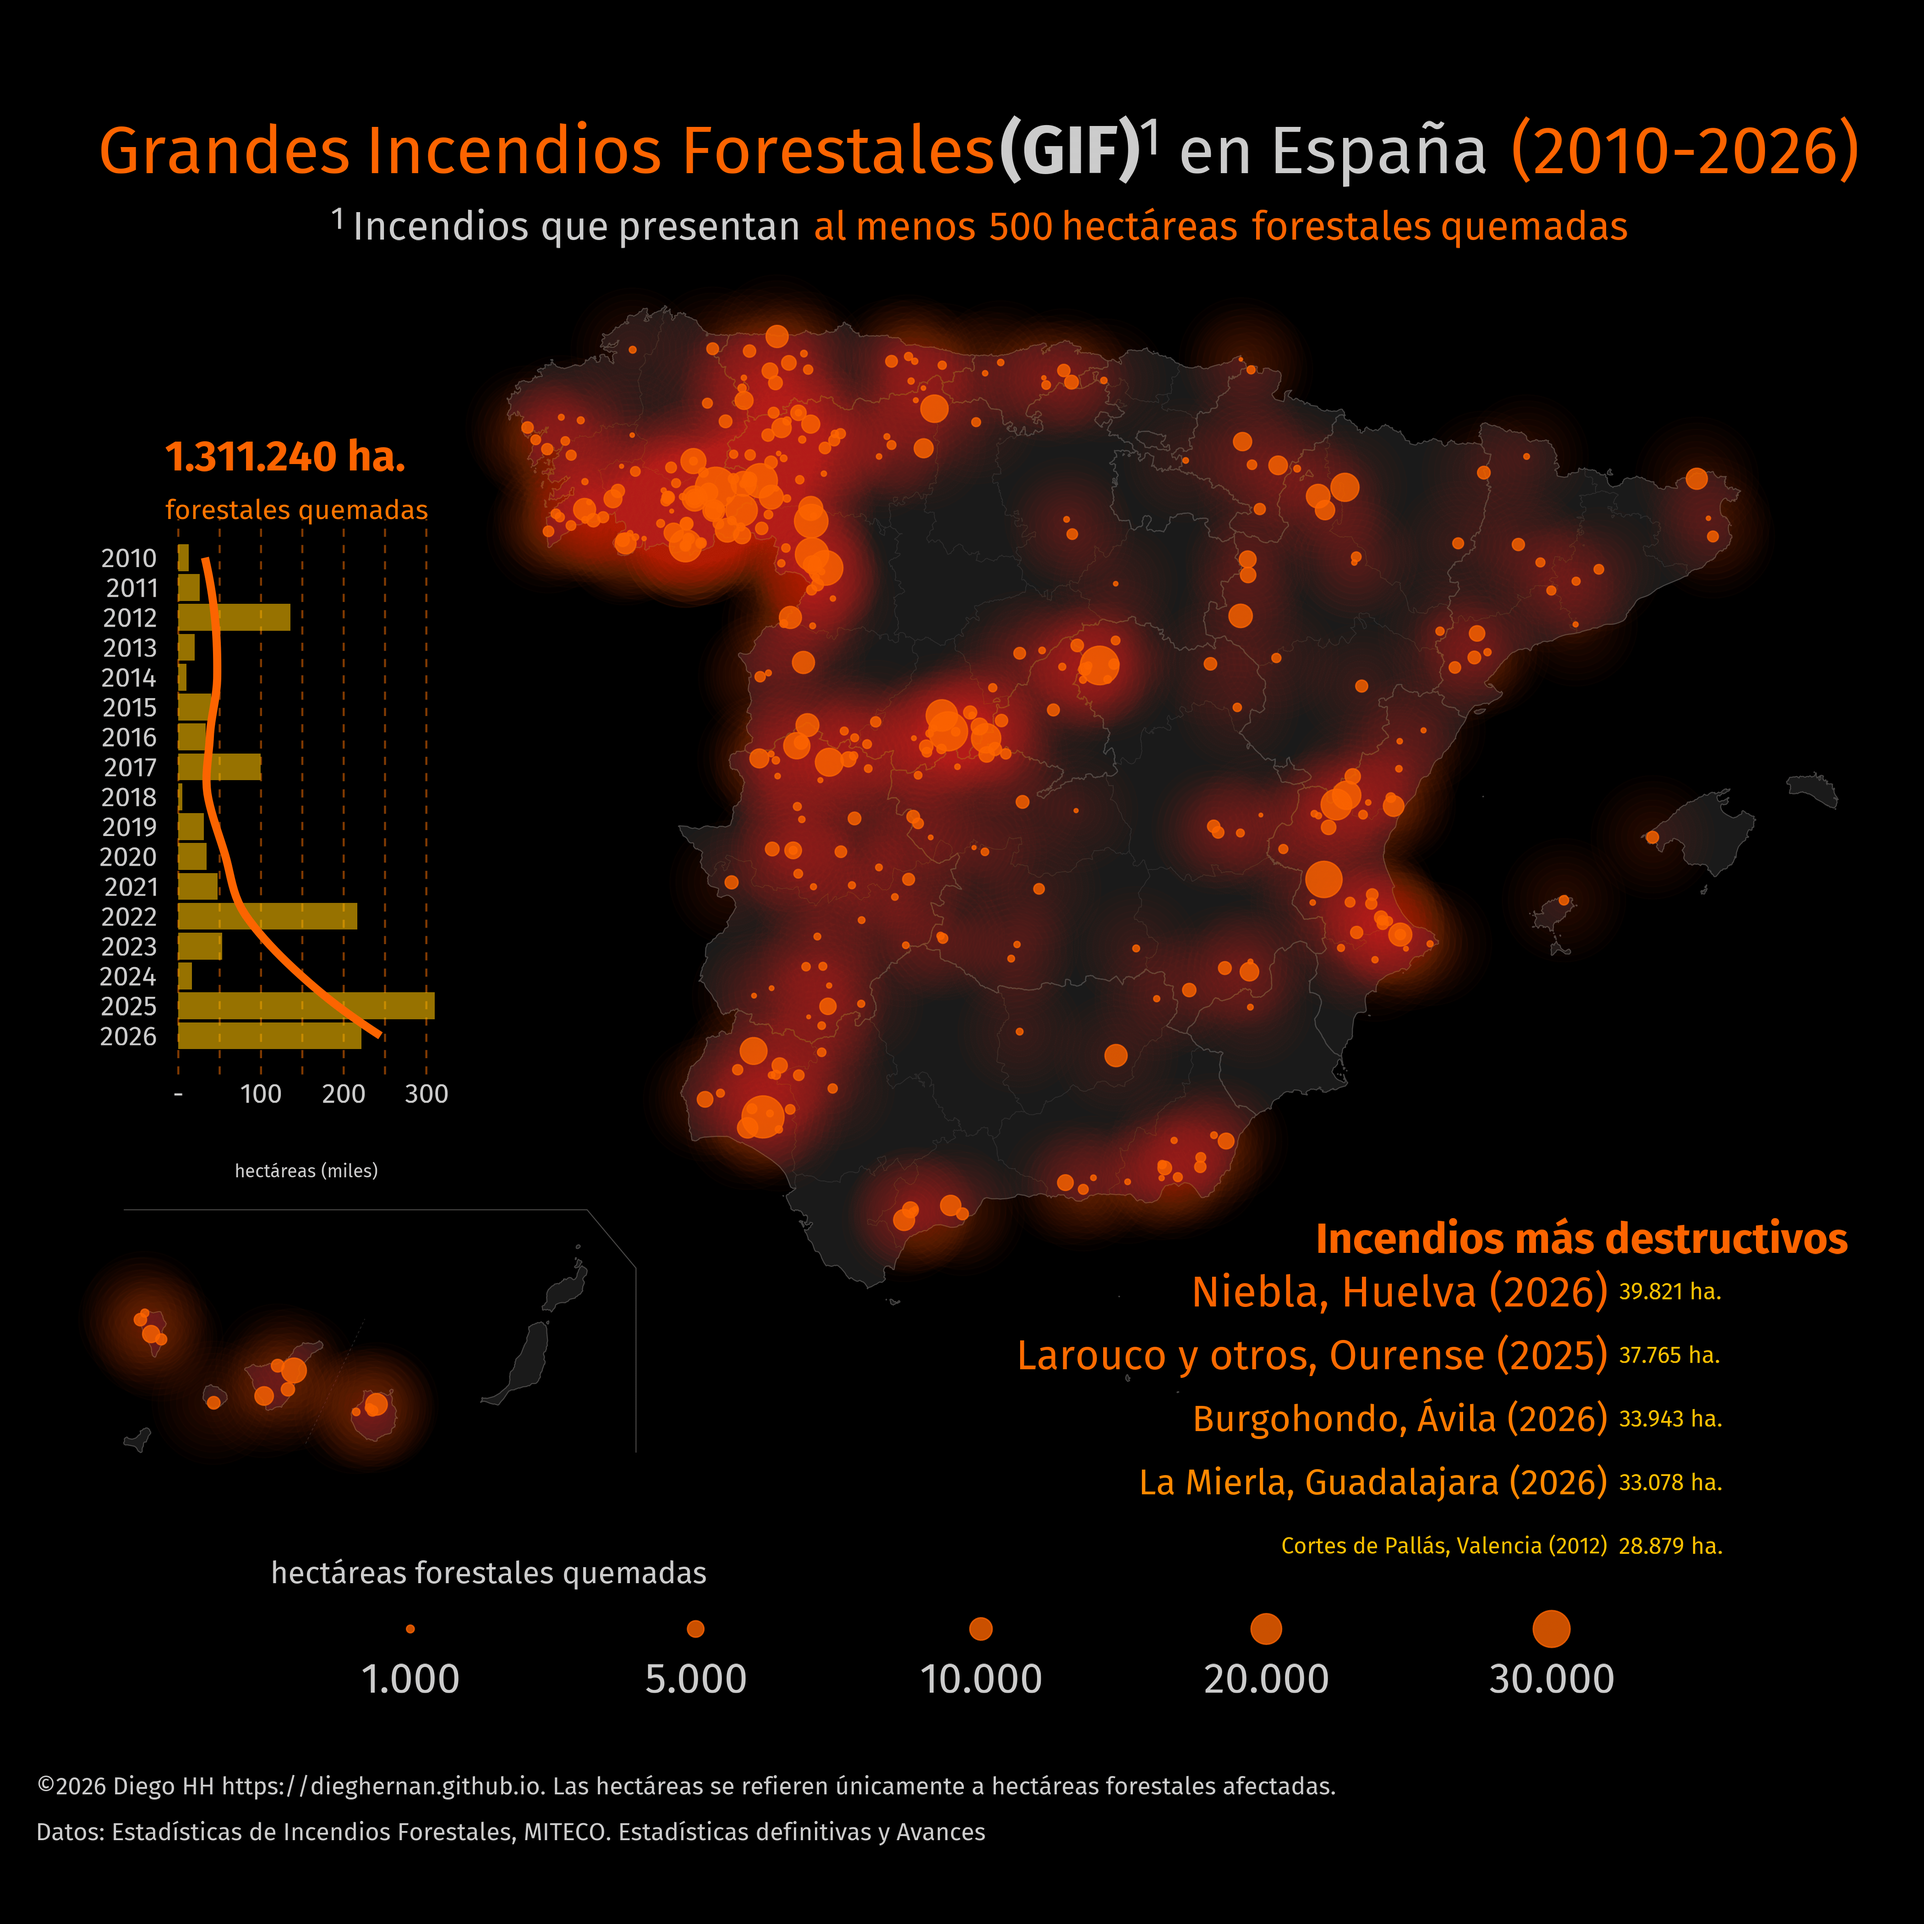
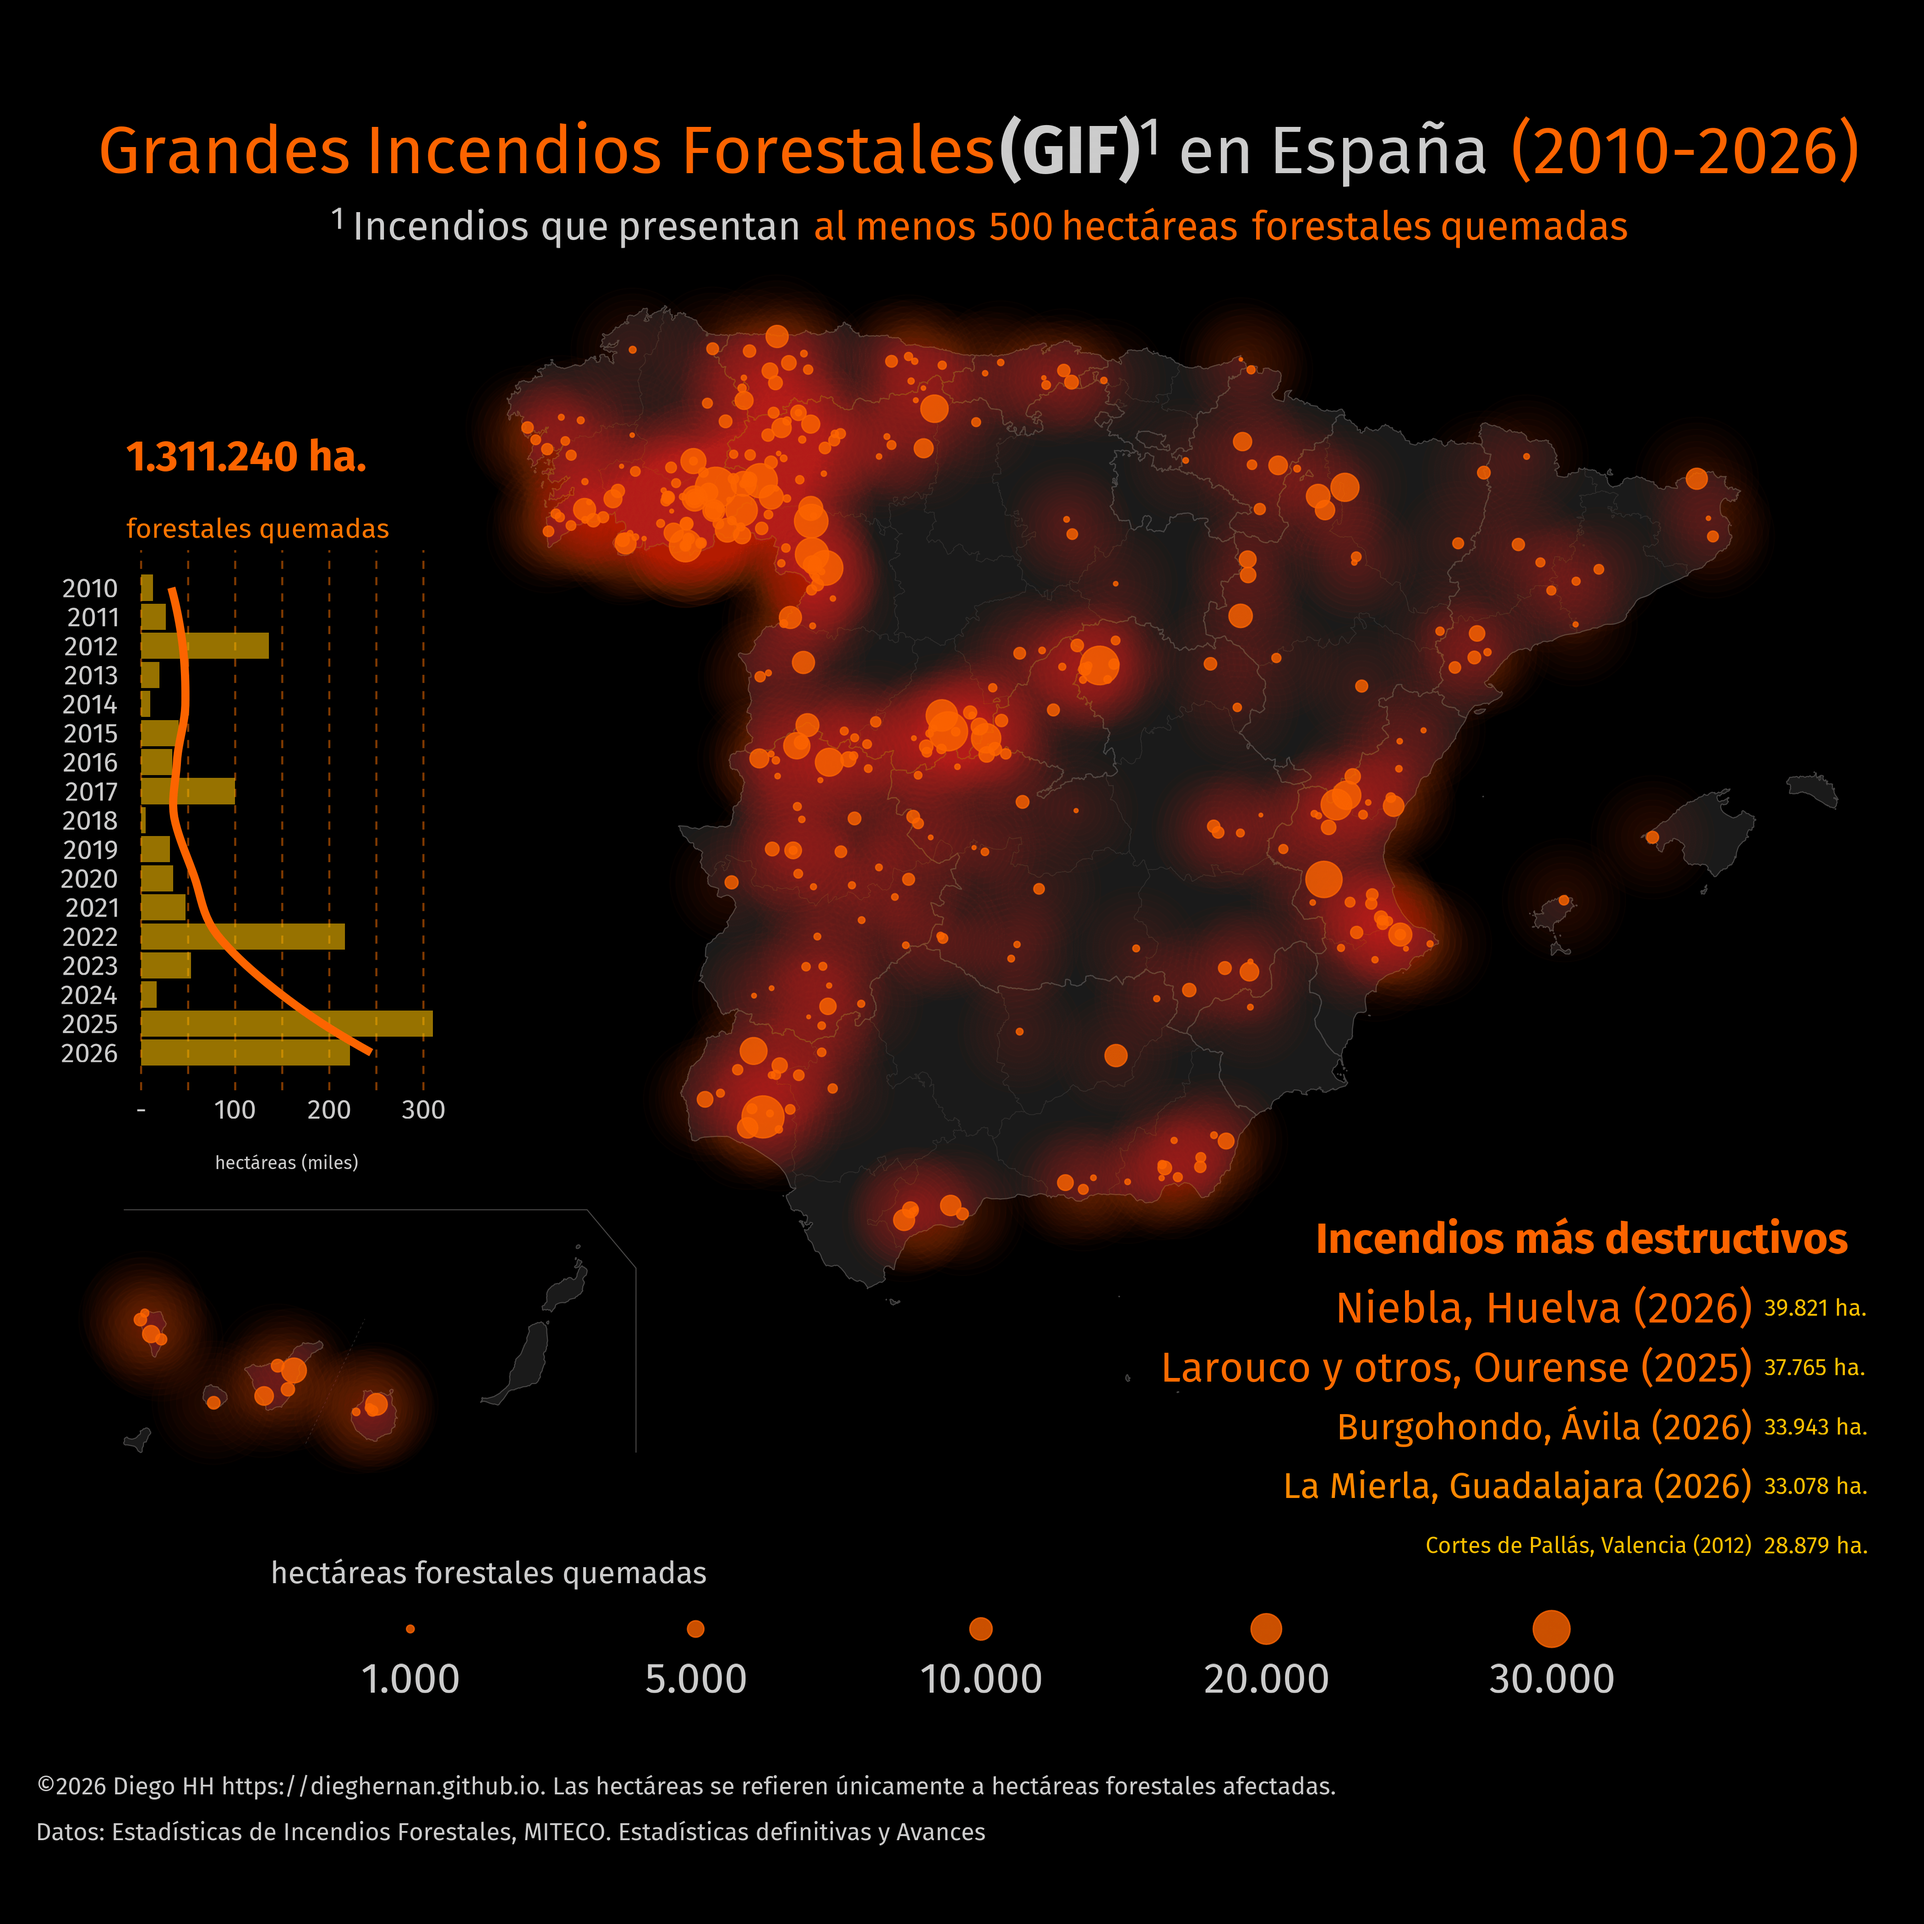
Prepare first dataset release and citation metadata
Add **CITATION.cff**, a changelog and release preparation notes. Include regenerated infographic images and session information.

diff --git a/RELEASE.md b/RELEASE.md
@@ -1,0 +1,91 @@
+# Preparación de la primera release
+
+Estado: borrador local. Versión propuesta: `1.0.0`; etiqueta: `v1.0.0`.
+La fecha de publicación y el DOI están pendientes de asignación.
+
+## Notas de la release
+
+### Grandes incendios forestales en España — v1.0.0
+
+Primera versión auditada del conjunto de grandes incendios forestales en
+España desde 2010. Contiene 449 incendios, fechados entre el 27 de febrero
+de 2010 y el 26 de septiembre de 2026, con una superficie forestal quemada
+acumulada de 1.311.239,9728 ha.
+
+Incluye los datos en CSV y Excel, la metodología de recopilación y
+validación, la infografía y el código utilizado para generarla. El
+descriptor Croissant documenta los siete campos y enlaza una instantánea
+inmutable del CSV con su suma SHA-256.
+
+Los datos proceden de estadísticas definitivas del MITECO para 2010–2021
+y avances provisionales para 2022–2026. Las fechas de 2012 son convencionales
+y solo identifican el año. Los extremos temporales del archivo no indican
+años completos de cobertura; el conjunto no ofrece seguimiento en tiempo
+real. Los puntos del mapa representan capitales municipales de referencia,
+no el origen exacto ni el perímetro de los incendios.
+
+Origen de los datos: MITECO. Recopilación y adaptación: Diego Hernangómez.
+La reutilización de los datos sigue el aviso legal del MITECO; el código y
+la documentación se distribuyen bajo MIT. El proyecto es independiente y
+no implica respaldo del Ministerio.
+
+## Archivos de la publicación
+
+El archivo del repositorio debe contener, como mínimo:
+
+- `rdata/gif_d2010.csv` y `rdata/gif_d2010.xlsx`.
+- `METODOLOGIA.md`, `README.md` y `CHANGELOG.md`.
+- `gif_spain.png`, `incendios.R` y `sessioninfo.txt`.
+- `croissant.json`, sus fuentes en `_data/` y los scripts de generación.
+- `CITATION.cff`, `LICENSE` y los avisos de terceros incluidos en el proyecto.
+
+Como adjuntos de la release de GitHub, ofrecer también el CSV, el Excel y la
+infografía para facilitar la descarga. Comprobar en Zenodo qué archivos se
+han archivado; los adjuntos de GitHub no deben ser la única copia del material.
+
+## Comprobaciones antes de publicar
+
+1. Revisar y guardar los cambios finales de imágenes y datos. Comprobar la
+   igualdad de valores entre CSV y Excel y revisar visualmente la infografía.
+2. Ejecutar las comprobaciones descritas en `scripts/README-croissant.md`:
+   regeneración, validador oficial, compilación de Jekyll y pruebas.
+3. Revisar `CITATION.cff`: título, autor, ORCID, versión y condiciones de
+   reutilización. Añadir `date-released` y el año de `preferred-citation`
+   cuando se conozca la fecha efectiva de publicación. Sustituir también
+   «En preparación» en [CHANGELOG.md](CHANGELOG.md) por esa fecha y comprobar
+   que sus novedades coinciden con las notas de la release.
+4. Conectar el repositorio con Zenodo antes de publicar la release. Revisar
+   la configuración del registro como conjunto de datos y la separación
+   entre las condiciones del MITECO y la licencia MIT del código. El campo
+   `license-url` de CFF documenta las condiciones de los datos, pero no se
+   debe dar por hecho que la integración lo importe correctamente.
+5. Si se necesita `.zenodo.json` para controlar la importación, prepararlo y
+   validarlo antes de etiquetar. Zenodo da prioridad a ese archivo sobre
+   `CITATION.cff`; ambos deben describir la misma publicación.
+6. Crear la etiqueta y publicar la release sobre el commit revisado. Usar
+   las notas anteriores como descripción.
+7. Comprobar el registro archivado: tipo, archivos, autoría, versión,
+   cobertura, atribución y condiciones de reutilización.
+
+## Incorporación del DOI
+
+Cuando Zenodo asigne el DOI de la versión, añadirlo a `doi` y
+`preferred-citation.doi` en `CITATION.cff`. Usar el DOI de esa versión para
+identificar esta instantánea y el DOI general para enlazar el proyecto a
+través de sus versiones.
+
+Añadir la cita y el enlace a Zenodo al README y a la web. Actualizar los
+metadatos fuente en `_data/structured_data.json`, regenerar Croissant y
+ajustar las pruebas que actualmente comprueban que no existe una versión
+numerada. No editar a mano los descriptores generados.
+
+Si el DOI se obtiene después de publicar, incorporarlo en un commit
+posterior sin mover la etiqueta publicada. Si se quiere incluir el DOI
+dentro de los archivos de la primera versión, reservarlo en un borrador de
+Zenodo antes de cerrar el commit y publicar después ese mismo depósito.
+
+## Referencias de publicación
+
+- [Integración con GitHub](https://help.zenodo.org/docs/github/).
+- [Metadatos de Zenodo](https://help.zenodo.org/docs/github/describe-software/zenodo-json/).
+- [Versionado de DOI](https://zenodo.org/help/versioning).

diff --git a/CHANGELOG.md b/CHANGELOG.md
@@ -1,0 +1,14 @@
+# Historial de cambios
+
+## 1.0.0 — En preparación
+
+Primera versión auditada del conjunto de grandes incendios forestales en
+España. La fecha de publicación y el DOI están pendientes de asignación.
+
+- Conjunto de 449 incendios con al menos 500 hectáreas forestales quemadas, fechado entre el 27 de febrero de 2010 y el 26 de septiembre de 2026 y disponible en CSV y Excel.
+- Revisión de registros frente a las estadísticas definitivas del MITECO de 2010–2021 y los avances provisionales de 2022–2026, con correcciones de fechas, superficies, nombres y códigos territoriales.
+- Metodología con fuentes anuales, decisiones de tratamiento, agregados y limitaciones, incluidas las fechas convencionales de 2012 y la cobertura parcial de los datos.
+- Infografía y tarjetas para compartir actualizadas con los datos revisados.
+- Descriptor Croissant y metadatos de Dataset con un enlace inmutable al CSV, su tamaño y su suma SHA-256.
+- Comprobaciones automatizadas de integridad de datos, coherencia de metadatos y lectura del CSV con el validador oficial de Croissant.
+- Archivo `CITATION.cff` para citar el conjunto, con autoría, ORCID y condiciones de reutilización de los datos.

diff --git a/README.md b/README.md
@@ -69,6 +69,8 @@ gráfico anual también resume únicamente los registros incluidos en el conjunt
 La información de la sesión con la que se ha generado la infografía se
 proporciona en el archivo [sessioninfo.txt](sessioninfo.txt).
 
+El [historial de cambios](CHANGELOG.md) resume las novedades de cada versión.
+
 ## Referencias
 
 Royé, Dominic. 2021. “Firefly Cartography.” June 1.
